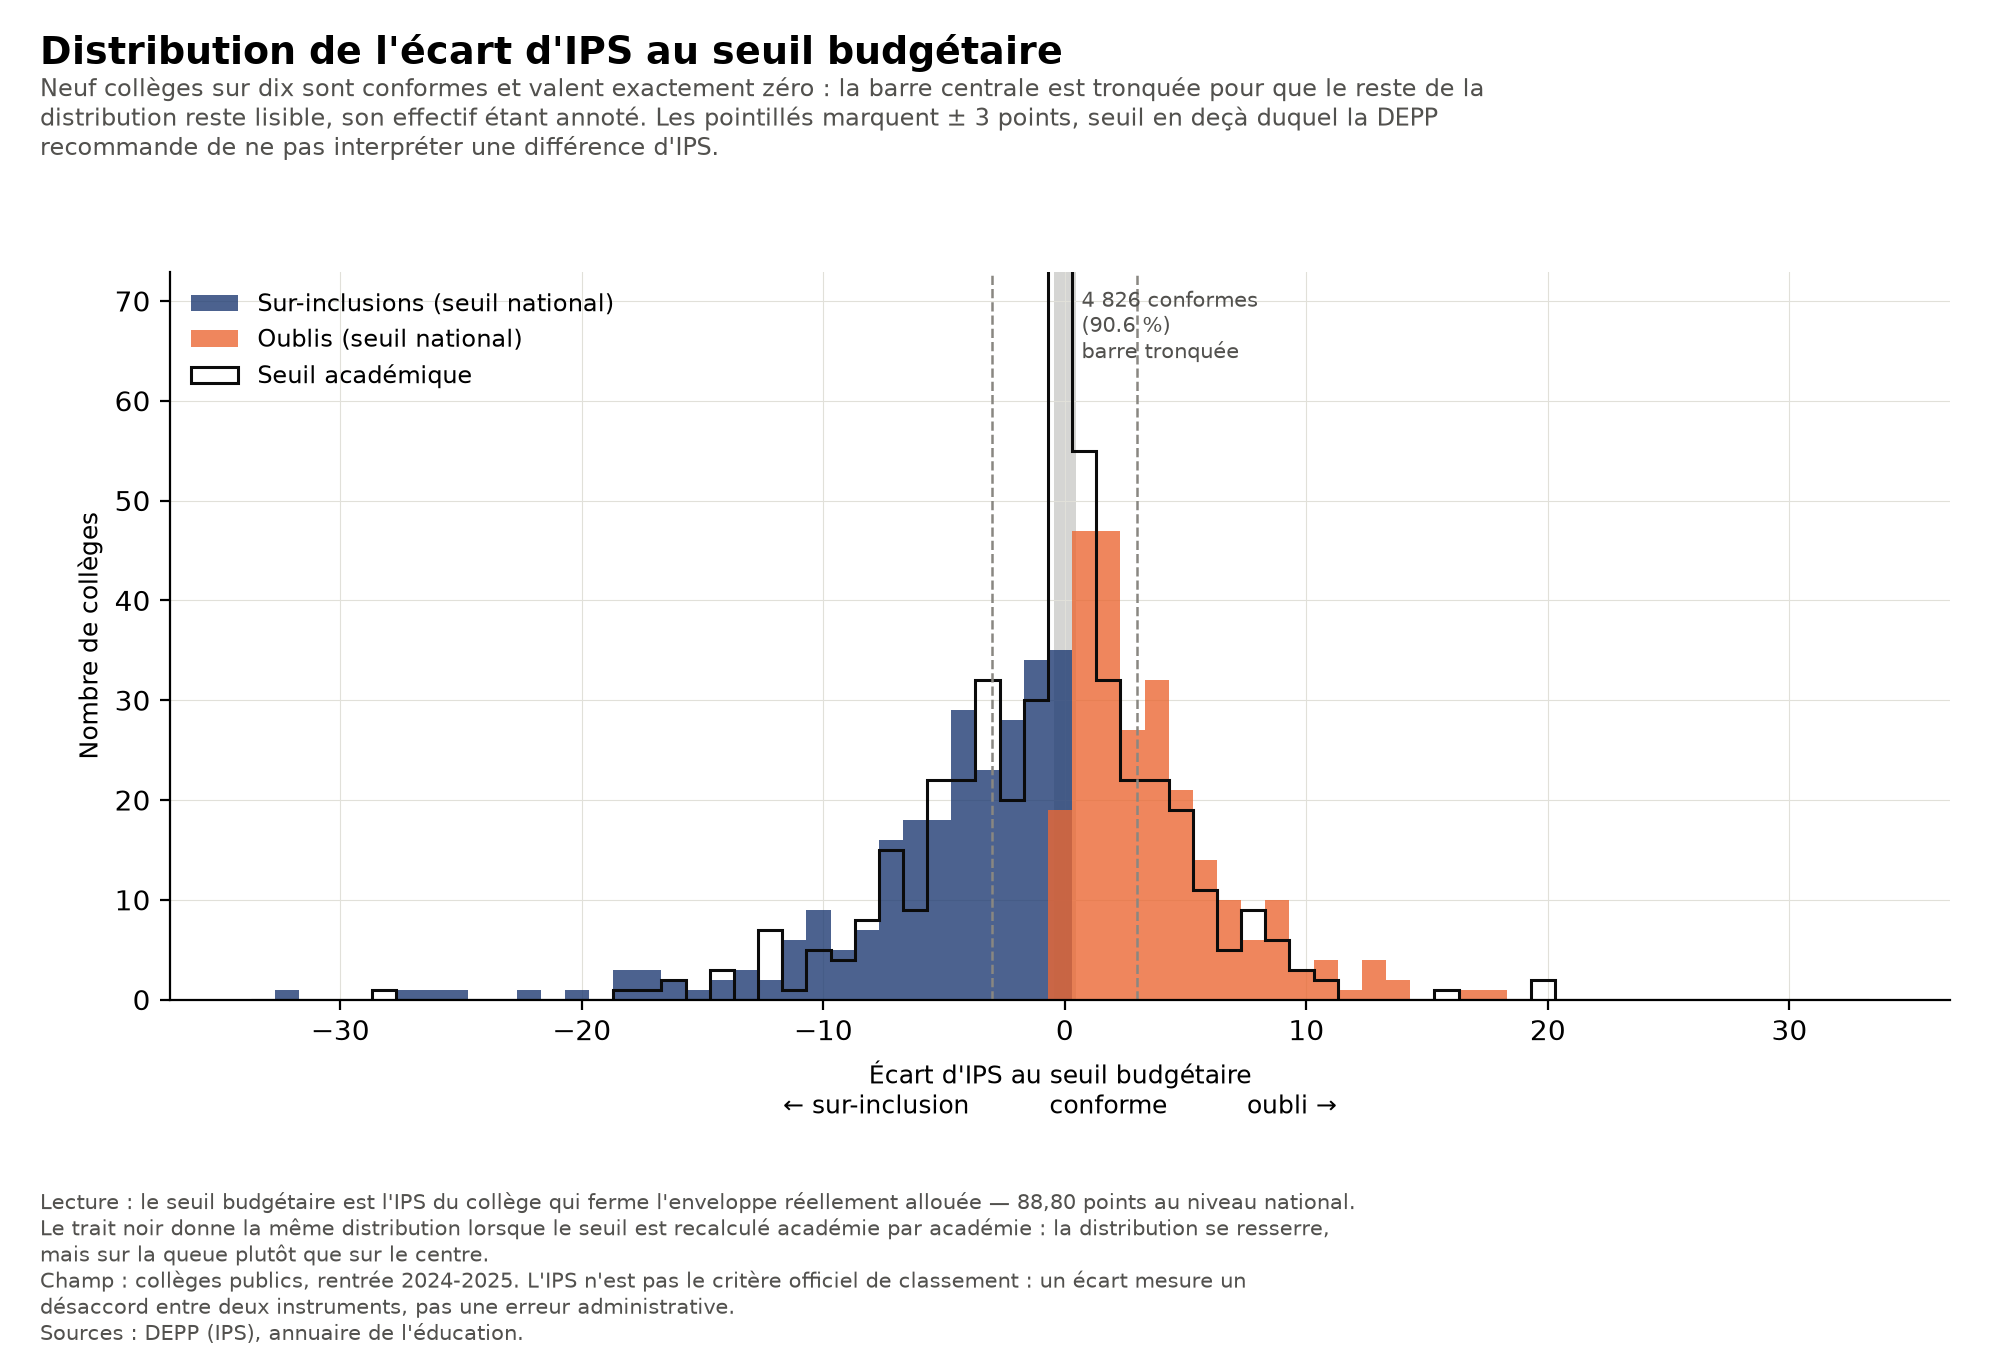
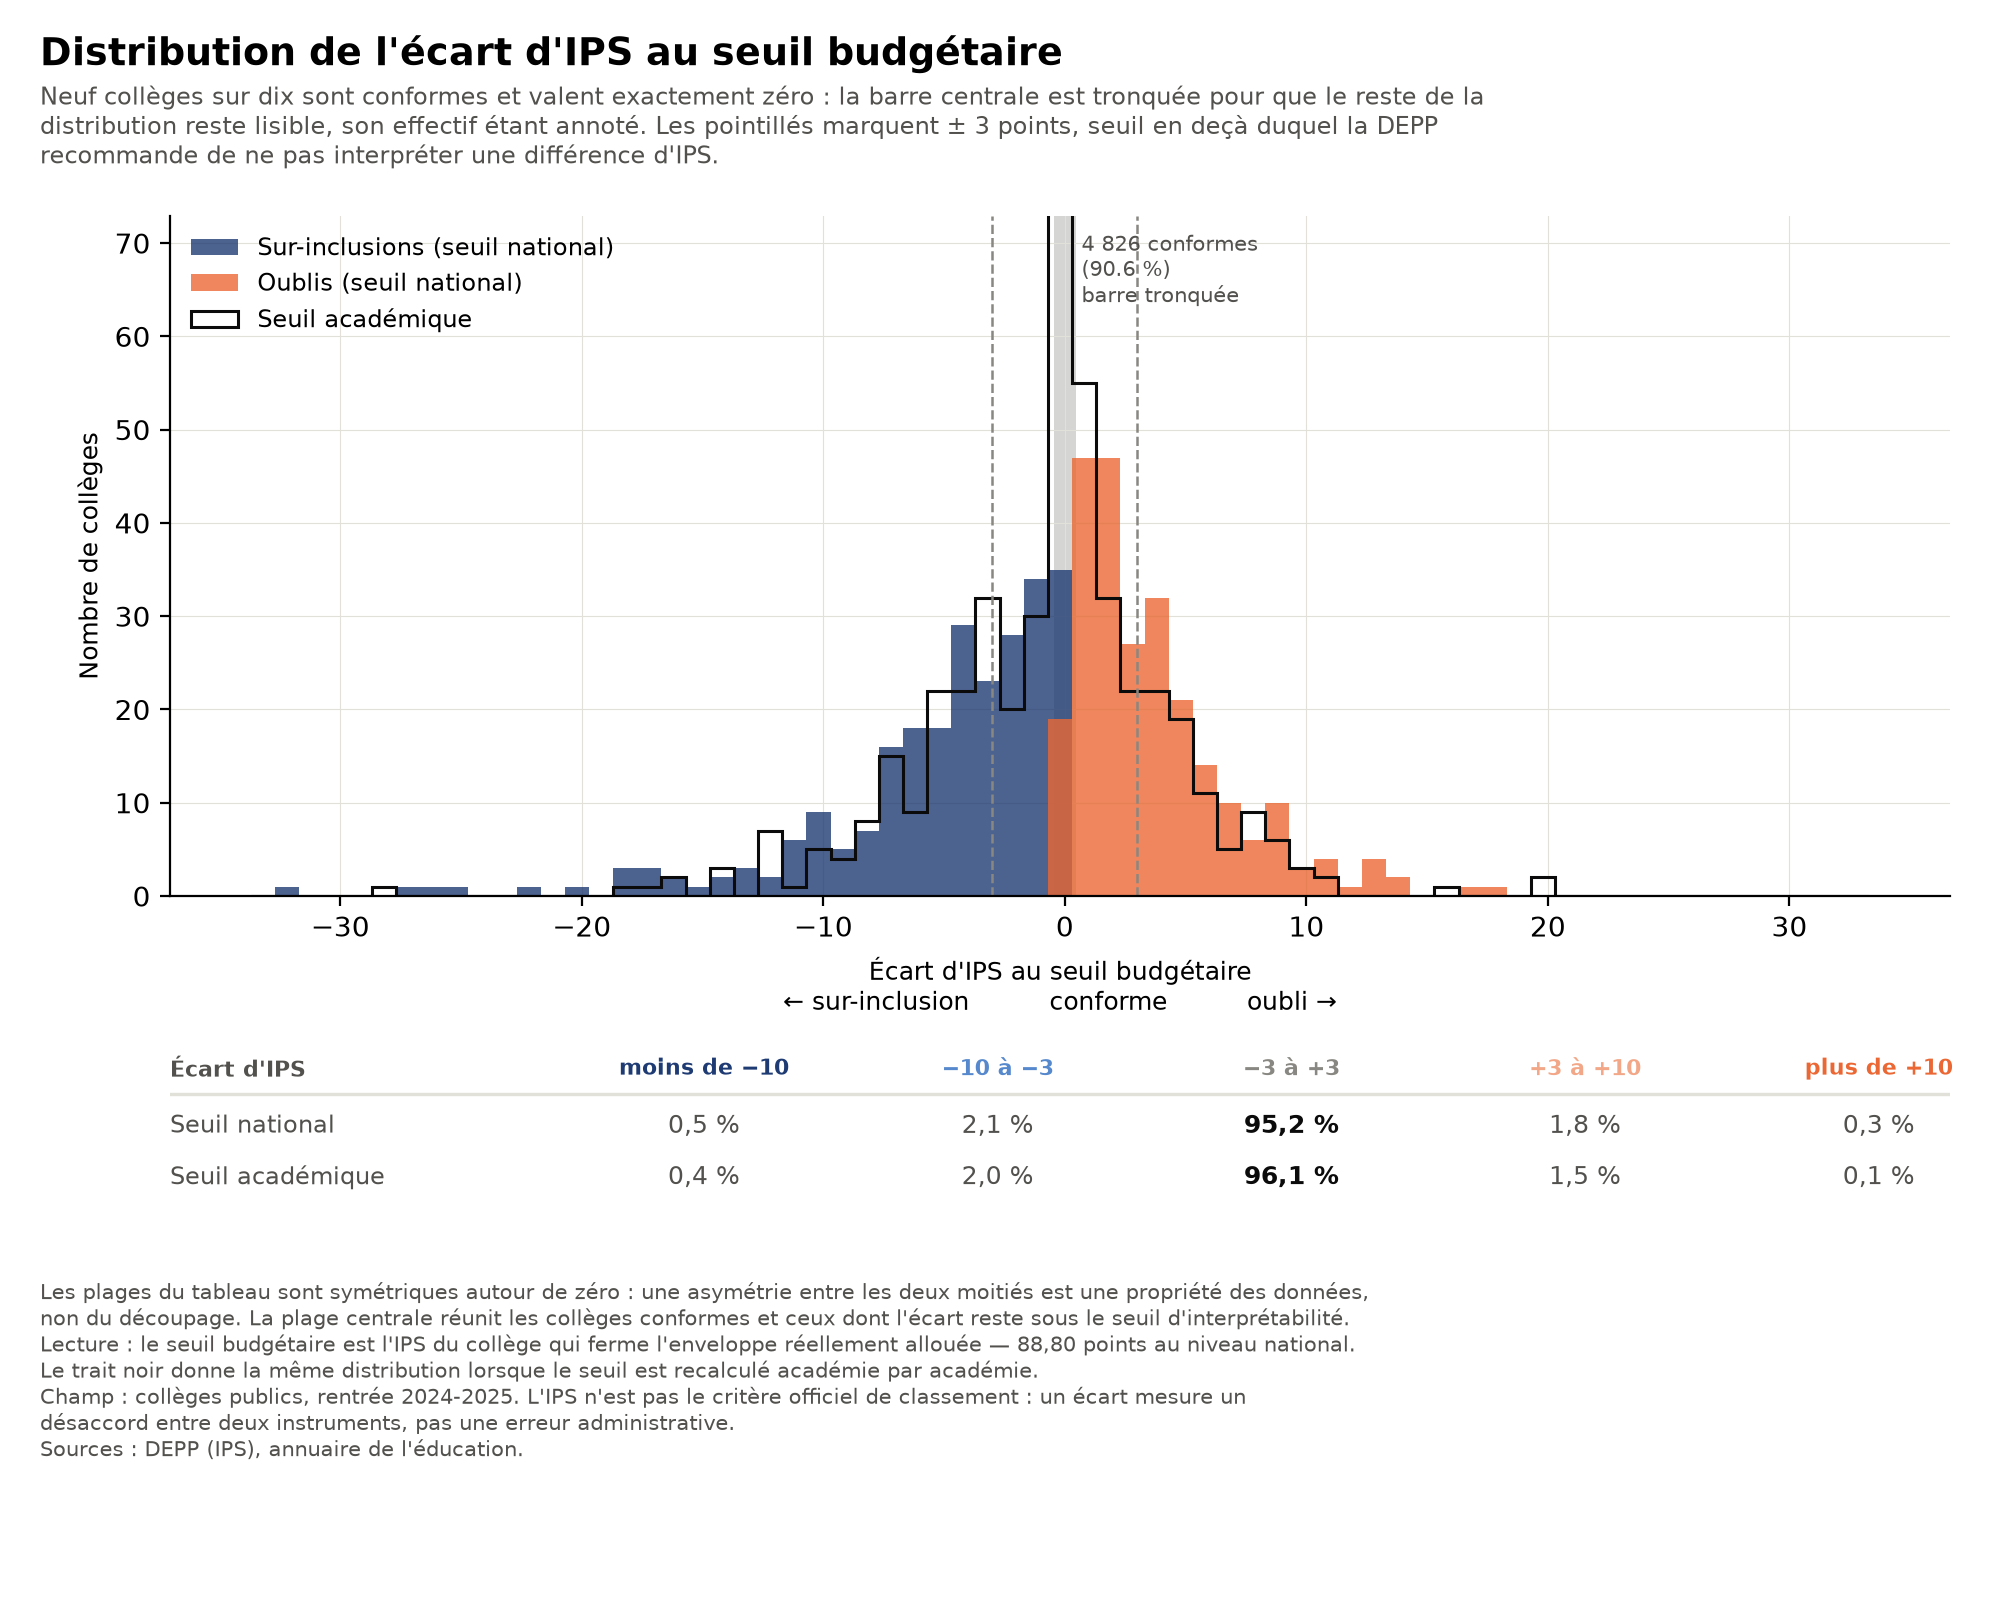
Tableau de repartition sous la distribution de l'ecart
Part de colleges dans cinq plages d'ecart, pour les deux variantes de seuil.
Une barre tronquee et une echelle asymetrique se lisent mal au chiffre pres :
le tableau donne ce que le graphe montre.

Les plages sont exactement symetriques autour de zero. La plage centrale est
definie par |ecart| <= 3 et les quatre autres s'en deduisent par le signe et
par le franchissement de 10 ; aucune borne n'est attribuee deux fois. Un
decoupage naif par pd.cut aurait rattache -3 a la tranche de gauche et +3 a la
tranche centrale, creant un desequilibre invisible. La symetrie garantit
qu'une asymetrie lue dans le tableau vient des donnees.

Resultat : 95,2 % des colleges tiennent dans +/- 3 points au seuil national,
96,1 % au seuil academique. Les deux moities ne s'equilibrent pas, 2,6 % du
cote de la sur-inclusion contre 2,1 % du cote de l'oubli, et l'ecart se creuse
aux extremes.

Le tableau est trace a la main plutot qu'avec ax.table : en-tetes colores
reprenant la convention du graphe, filet unique sous l'en-tete, plage centrale
en gras parce qu'elle concentre neuf colleges sur dix. La repartition est
aussi imprimee dans la console, et reprise dans le README.

diff --git a/src/distribution_ecart.py b/src/distribution_ecart.py
@@ -18,6 +18,16 @@ Les deux variantes de seuil sont superposees, aplat pour le seuil national et
 trait pour le seuil academique. La comparaison montre ou le changement d'etalon
 agit : sur la queue, non sur le centre.
 
+UN TABLEAU SOUS LE GRAPHE
+
+Une barre tronquee et une echelle asymetrique se lisent mal au chiffre pres. Le
+tableau donne donc la repartition en pourcentage sur cinq plages, pour les deux
+variantes de seuil. Les bornes sont SYMETRIQUES autour de zero (+/- 3 et
++/- 10) : la plage centrale reunit les colleges conformes et ceux dont l'ecart
+reste sous le seuil d'interpretabilite de la DEPP, et les quatre autres se
+repondent deux a deux. Toute asymetrie lue dans le tableau est donc une
+propriete des donnees, jamais du decoupage.
+
 Prerequis : `uv run python -m src.score_ecart`
 
 Lancement (depuis la racine du projet) :
@@ -37,17 +47,28 @@ from src.config import FIGURES, PROJECT_ROOT
 DOSSIER_TABLES = PROJECT_ROOT / "outputs" / "tables"
 
 # Seuil d'interpretabilite de l'IPS recommande par la DEPP. Sert ici de repere
-# visuel, pas de filtre : la figure montre toute la distribution.
+# visuel et de borne interieure du tableau, pas de filtre : la figure montre
+# toute la distribution.
 SEUIL_INTERPRETABLE = 3.0
+SEUIL_FORT = 10.0
 
-# Largeur de classe, en points d'IPS.
+# Largeur de classe de l'histogramme, en points d'IPS.
 PAS = 1.0
 
 BLEU, ORANGE = "#1f3b73", "#eb6834"
+BLEU_CLAIR, ORANGE_CLAIR = "#5588cc", "#f2a888"
 ENCRE, GRILLE, MUET, ENCRE_2 = "#0b0b0b", "#e1e0d9", "#898781", "#52514e"
 
 VARIANTES = [("score_ecart_ips", "type_ecart", "national"),
              ("score_ecart_academie", "type_ecart_academie", "académique")]
+
+# Libelle, couleur de l'en-tete. L'ordre suit l'axe des abscisses, de la
+# sur-inclusion la plus forte a l'oubli le plus fort.
+PLAGES = [("moins de −10", BLEU),
+          ("−10 à −3", BLEU_CLAIR),
+          ("−3 à +3", MUET),
+          ("+3 à +10", ORANGE_CLAIR),
+          ("plus de +10", ORANGE)]
 
 
 def charger() -> pd.DataFrame:
@@ -71,6 +92,27 @@ def signer(df: pd.DataFrame, col_score: str, col_type: str) -> np.ndarray:
         [df[col_score], -df[col_score]], default=0.0)
 
 
+def repartir(valeurs: np.ndarray) -> np.ndarray:
+    """Part de colleges, en %, dans chacune des cinq plages d'ecart.
+
+    Les conditions sont testees dans l'ordre et la plage centrale vient en
+    premier : elle est definie par |ecart| <= 3, ce qui la rend exactement
+    symetrique. Les quatre autres s'en deduisent par le signe et par le
+    franchissement de 10. Aucune borne n'est ainsi attribuee deux fois, et le
+    decoupage ne peut pas fabriquer d'asymetrie.
+    """
+    absolu = np.abs(valeurs)
+    indices = np.select(
+        [absolu <= SEUIL_INTERPRETABLE,
+         (valeurs < 0) & (absolu > SEUIL_FORT),
+         valeurs < 0,
+         valeurs > SEUIL_FORT],
+        [2, 0, 1, 4],
+        default=3)
+    effectifs = np.bincount(indices, minlength=len(PLAGES))
+    return 100 * effectifs / len(valeurs)
+
+
 def resumer(df: pd.DataFrame) -> None:
     """Affiche la composition de la distribution, par variante."""
     print(f"\n{'=' * 84}")
@@ -80,22 +122,66 @@ def resumer(df: pd.DataFrame) -> None:
     for col_score, _, libelle in VARIANTES:
         s = df[col_score]
         nul = int((s == 0).sum())
-        petit = int(((s > 0) & (s <= SEUIL_INTERPRETABLE)).sum())
-        grand = int((s > SEUIL_INTERPRETABLE).sum())
         non_nuls = s[s > 0]
         q = non_nuls.quantile([0.5, 0.75, 0.9, 0.99]).round(2)
         print(f"\n  seuil {libelle:11s} : nul {nul:>5} "
-              f"({100 * nul / len(df):>4.1f} %) | "
-              f"0-{SEUIL_INTERPRETABLE:.0f} pts {petit:>5} "
-              f"({100 * petit / len(df):>4.1f} %) | "
-              f">{SEUIL_INTERPRETABLE:.0f} pts {grand:>5} "
-              f"({100 * grand / len(df):>4.1f} %)")
-        print(f"  {'':18s}   non nuls : med {q[0.5]:>5.2f}  Q3 {q[0.75]:>5.2f}  "
-              f"D9 {q[0.9]:>5.2f}  C99 {q[0.99]:>5.2f}  max {non_nuls.max():>5.1f}")
+              f"({100 * nul / len(df):>4.1f} %) | non nuls : "
+              f"med {q[0.5]:>5.2f}  Q3 {q[0.75]:>5.2f}  D9 {q[0.9]:>5.2f}  "
+              f"C99 {q[0.99]:>5.2f}  max {non_nuls.max():>5.1f}")
+
+    print(f"\n{'-' * 84}")
+    print("REPARTITION PAR PLAGE D'ECART, EN % DES COLLEGES")
+    print("-" * 84)
+    entetes = [libelle.replace("−", "-") for libelle, _ in PLAGES]
+    print(f"{'seuil':14s}" + "".join(f"{e:>15s}" for e in entetes))
+    for col_score, col_type, libelle in VARIANTES:
+        parts = repartir(signer(df, col_score, col_type))
+        print(f"{libelle:14s}" + "".join(f"{p:>14.1f}%" for p in parts))
+
+
+def tableau(fig, df: pd.DataFrame, position: list) -> None:
+    """Dessine sous le graphe la repartition en % par plage, pour les 2 seuils.
+
+    Le tableau est trace a la main plutot qu'avec `ax.table` : on veut des
+    en-tetes colores reprenant la convention de la figure, un filet unique
+    sous l'en-tete et aucune bordure, ce que le composant standard ne permet
+    pas sans le defaire entierement.
+    """
+    ax = fig.add_axes(position)
+    ax.set_axis_off()
+    ax.set_xlim(0, 1)
+    ax.set_ylim(0, 1)
+
+    # Colonne de libelles a gauche, puis cinq colonnes de valeurs reparties
+    # sur l'espace restant.
+    x_libelle = 0.0
+    x_colonnes = np.linspace(0.30, 0.96, len(PLAGES))
+    y_entete, y_lignes = 0.82, [0.46, 0.14]
+
+    ax.text(x_libelle, y_entete, "Écart d'IPS", fontsize=8,
+            fontweight="bold", color=ENCRE_2, va="center")
+    for x, (libelle, couleur) in zip(x_colonnes, PLAGES):
+        ax.text(x, y_entete, libelle, fontsize=8, fontweight="bold",
+                color=couleur, ha="center", va="center")
+
+    ax.plot([0, 1], [0.66, 0.66], color=GRILLE, linewidth=1.2)
+
+    for y, (col_score, col_type, libelle) in zip(y_lignes, VARIANTES):
+        parts = repartir(signer(df, col_score, col_type))
+        ax.text(x_libelle, y, f"Seuil {libelle}", fontsize=8.5,
+                color=ENCRE_2, va="center")
+        for x, part, (_, couleur) in zip(x_colonnes, parts, PLAGES):
+            # La plage centrale concentre neuf colleges sur dix : elle est mise
+            # en gras pour qu'on ne la confonde pas avec les quatre autres.
+            centrale = couleur == MUET
+            ax.text(x, y, f"{part:.1f} %".replace(".", ","), fontsize=9,
+                    fontweight="bold" if centrale else "normal",
+                    color=ENCRE if centrale else ENCRE_2,
+                    ha="center", va="center")
 
 
 def figure(df: pd.DataFrame) -> None:
-    """Produit l'histogramme de l'ecart signe."""
+    """Produit l'histogramme de l'ecart signe, et le tableau qui l'accompagne."""
     national = signer(df, "score_ecart_ips", "type_ecart")
     academique = signer(df, "score_ecart_academie", "type_ecart_academie")
 
@@ -103,8 +189,10 @@ def figure(df: pd.DataFrame) -> None:
     # Bornes decalees d'un demi-pas pour que zero tombe au centre d'une classe.
     bins = np.arange(-borne - PAS, borne + 2 * PAS, PAS) - PAS / 2
 
-    fig, ax = plt.subplots(figsize=(10, 6.8))
-    fig.subplots_adjust(left=0.085, right=0.975, top=0.80, bottom=0.265)
+    fig, ax = plt.subplots(figsize=(10, 8.0))
+    # La marge basse doit loger l'etiquette d'axe sur deux lignes, le tableau
+    # et la note : d'ou une valeur inhabituellement grande.
+    fig.subplots_adjust(left=0.085, right=0.975, top=0.865, bottom=0.44)
 
     ax.hist(national[national < 0], bins=bins, color=BLEU, alpha=0.8,
             linewidth=0, label="Sur-inclusions (seuil national)")
@@ -140,21 +228,27 @@ def figure(df: pd.DataFrame) -> None:
     for bord in ["top", "right"]:
         ax.spines[bord].set_visible(False)
 
+    tableau(fig, df, [0.085, 0.250, 0.89, 0.100])
+
     fig.suptitle("Distribution de l'écart d'IPS au seuil budgétaire",
-                 fontsize=13.5, fontweight="bold", x=0.02, ha="left", y=0.975)
-    fig.text(0.02, 0.945,
+                 fontsize=13.5, fontweight="bold", x=0.02, ha="left", y=0.978)
+    fig.text(0.02, 0.948,
              "Neuf collèges sur dix sont conformes et valent exactement zéro : la "
              "barre centrale est tronquée pour que le reste de la\n"
              "distribution reste lisible, son effectif étant annoté. Les pointillés "
              f"marquent ± {SEUIL_INTERPRETABLE:.0f} points, seuil en deçà duquel la "
              "DEPP\nrecommande de ne pas interpréter une différence d'IPS.",
              fontsize=8.5, va="top", color=ENCRE_2)
-    fig.text(0.02, 0.125,
+
+    fig.text(0.02, 0.200,
+             "Les plages du tableau sont symétriques autour de zéro : une asymétrie "
+             "entre les deux moitiés est une propriété des données,\n"
+             "non du découpage. La plage centrale réunit les collèges conformes et "
+             "ceux dont l'écart reste sous le seuil d'interprétabilité.\n"
              "Lecture : le seuil budgétaire est l'IPS du collège qui ferme "
              "l'enveloppe réellement allouée — 88,80 points au niveau national.\n"
              "Le trait noir donne la même distribution lorsque le seuil est recalculé "
-             "académie par académie : la distribution se resserre,\n"
-             "mais sur la queue plutôt que sur le centre.\n"
+             "académie par académie.\n"
              "Champ : collèges publics, rentrée 2024-2025. L'IPS n'est pas le critère "
              "officiel de classement : un écart mesure un\n"
              "désaccord entre deux instruments, pas une erreur administrative.\n"

diff --git a/README.md b/README.md
@@ -522,6 +522,22 @@ conformes ne gagne que 1,4 point (90,6 → 92,0 %), mais le centile 99 tombe de 
 17,1. Autrement dit, changer d'étalon élimine les cas spectaculaires sans rien
 changer au désaccord de fond.
 
+Le tableau placé sous le graphe donne la répartition chiffrée. Ses plages sont
+**symétriques autour de zéro**, de sorte qu'une asymétrie entre les deux moitiés soit
+une propriété des données et non du découpage.
+
+| Seuil | < −10 | −10 à −3 | **−3 à +3** | +3 à +10 | > +10 |
+|---|---:|---:|---:|---:|---:|
+| National | 0,5 % | 2,1 % | **95,2 %** | 1,8 % | 0,3 % |
+| Académique | 0,4 % | 2,0 % | **96,1 %** | 1,5 % | 0,1 % |
+
+Trois lectures. **Plus de 95 % des collèges tiennent dans ± 3 points**, c'est-à-dire
+dans la marge que la DEPP juge ininterprétable. **Les deux moitiés ne s'équilibrent
+pas** : 2,6 % des collèges sont du côté de la sur-inclusion contre 2,1 % du côté de
+l'oubli, et l'écart se creuse aux extrêmes — 0,5 % au-delà de −10 contre 0,3 % au-delà
+de +10. **Le seuil académique agit surtout sur la tranche extrême des oublis**, qui
+passe de 0,3 % à 0,1 %, soit d'environ seize collèges à cinq.
+
 ### Les 48 cas au-delà de 10 points
 
 Restent les cas qu'aucune imprécision de mesure ne peut expliquer : **48 collèges**
